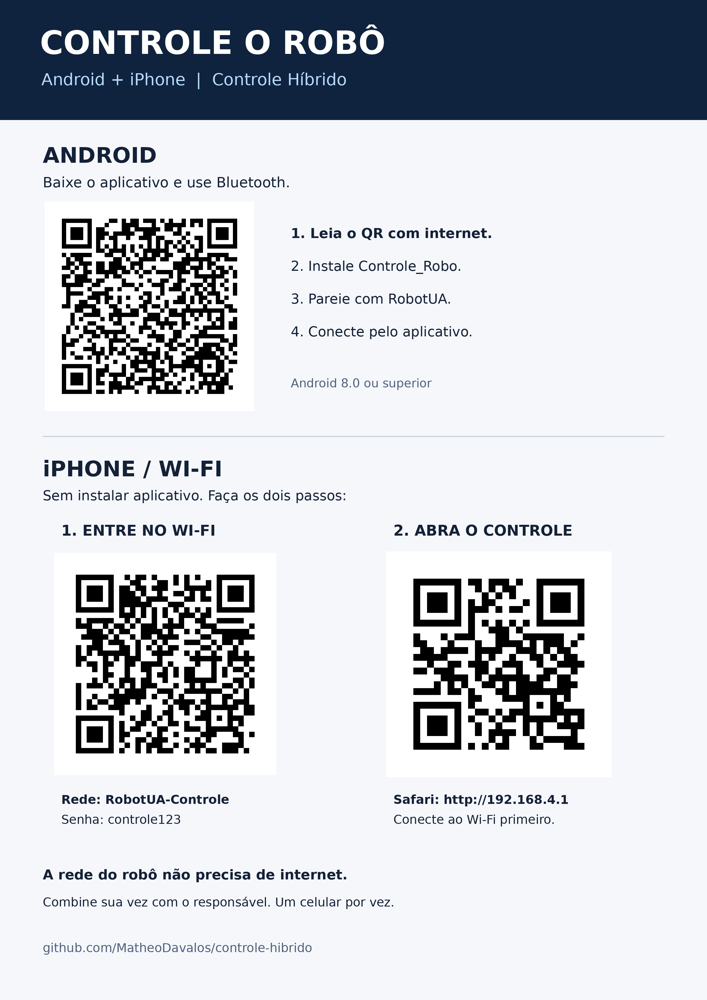
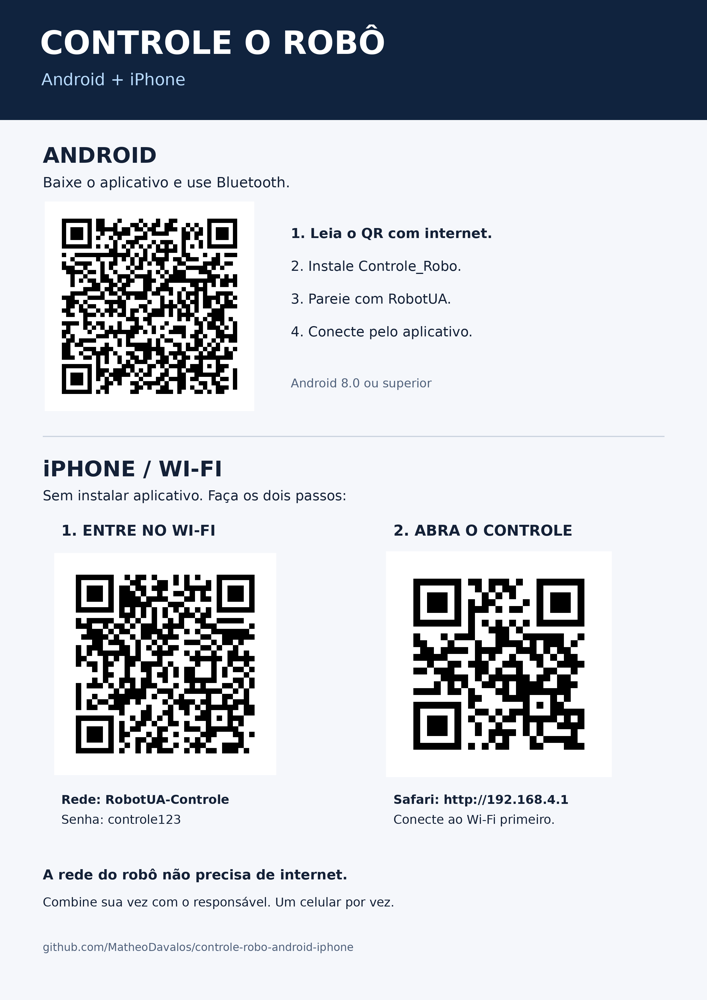
Renomeia apresentação para Controle do Robô e atualiza QR Codes

Changed region(s): [[0.0622, 0.217, 0.3423, 0.403], [0.0622, 0.93, 0.4979, 0.961], [0.2801, 0.062, 0.4979, 0.093]]

diff --git a/firmware/HeadController/WebControl.h b/firmware/HeadController/WebControl.h
@@ -7,7 +7,7 @@ static const char CONTROL_PAGE[] PROGMEM = R"HTML(
 <!doctype html><html lang="pt-BR"><head>
 <meta charset="utf-8"><meta name="viewport" content="width=device-width,initial-scale=1,maximum-scale=1,user-scalable=no,viewport-fit=cover">
 <meta name="apple-mobile-web-app-capable" content="yes"><meta name="apple-mobile-web-app-status-bar-style" content="black-translucent">
-<title>Controle Hibrido</title><style>
+<title>Controle do Robô</title><style>
 :root{color-scheme:dark;--bg:#070b12;--panel:#101827;--line:#29364b;--blue:#35a7ff;--red:#ff4d61;--muted:#91a0b7}*{box-sizing:border-box;touch-action:none;-webkit-user-select:none;user-select:none}
 html,body{margin:0;width:100%;height:100%;overflow:hidden;background:radial-gradient(circle at 50% -20%,#19304d,var(--bg) 55%);font-family:-apple-system,BlinkMacSystemFont,"Segoe UI",sans-serif;color:#fff}
 body{padding:max(10px,env(safe-area-inset-top)) max(12px,env(safe-area-inset-right)) max(10px,env(safe-area-inset-bottom)) max(12px,env(safe-area-inset-left));display:grid;grid-template-rows:auto 1fr;gap:10px}
@@ -17,7 +17,7 @@ main{min-height:0;display:grid;grid-template-columns:1fr auto 1fr;align-items:ce
 .knob{position:absolute;width:36%;height:36%;left:32%;top:32%;border-radius:50%;background:linear-gradient(145deg,#52baff,#1679c8);border:3px solid #79caff;box-shadow:0 8px 22px #000b,0 0 22px #269cff55;transform:translate(0,0)}
 .stop{width:92px;height:92px;border-radius:50%;border:4px solid #ff8290;background:linear-gradient(#fa4055,#b80e25);color:#fff;font-size:14px;font-weight:900;letter-spacing:.08em;box-shadow:0 10px 26px #000b,0 0 22px #ff314955}.stop:active{transform:scale(.94)}
 @media(max-width:680px) and (orientation:portrait){main{grid-template-columns:1fr 1fr;grid-template-rows:1fr auto}.stop{grid-column:1/-1;grid-row:2;width:76px;height:76px}.pad{width:min(42vw,31vh);height:min(42vw,31vh);min-width:130px;min-height:130px}}
-</style></head><body><header><div class="brand">CONTROLE HIBRIDO</div><div class="status"><span id="dot" class="dot"></span><span id="status">Pronto</span></div></header>
+</style></head><body><header><div class="brand">CONTROLE DO ROBÔ</div><div class="status"><span id="dot" class="dot"></span><span id="status">Pronto</span></div></header>
 <main><section class="control"><div class="label">MOVIMENTO</div><div id="move" class="pad"><div class="knob"></div></div></section><button id="stop" class="stop">PARAR</button><section class="control"><div class="label">DIRECAO</div><div id="steer" class="pad"><div class="knob"></div></div></section></main>
 <script>
 (()=>{'use strict';let movement=0,steering=0,armed=false,busy=false,lastByte=-1;

diff --git a/feira/gerar_material.py b/feira/gerar_material.py
@@ -6,10 +6,10 @@ from PIL import Image, ImageDraw, ImageFont
 
 out = Path(__file__).resolve().parent
 urls = {
-    'qr-android': 'https://github.com/MatheoDavalos/controle-hibrido/raw/refs/heads/main/apk/Controle_Robo.apk',
+    'qr-android': 'https://github.com/MatheoDavalos/controle-robo-android-iphone/raw/refs/heads/main/apk/Controle_Robo.apk',
     'qr-wifi': 'WIFI:T:WPA;S:RobotUA-Controle;P:controle123;;',
-    'qr-controle-hibrido': 'http://192.168.4.1',
-    'qr-repositorio': 'https://github.com/MatheoDavalos/controle-hibrido',
+    'qr-controle-wifi': 'http://192.168.4.1',
+    'qr-repositorio': 'https://github.com/MatheoDavalos/controle-robo-android-iphone',
 }
 codes = {}
 for name, payload in urls.items():
@@ -34,7 +34,7 @@ def paste_qr(name, x, y, limit):
     im.paste(img, (x+(limit-side)//2, y+(limit-side)//2))
 d.rectangle((0,0,2480,420), fill='#10233e')
 text(140,85,'CONTROLE O ROBÔ',112,True,'white')
-text(145,245,'Android + iPhone  |  Controle Híbrido',58,False,'#b9dcff')
+text(145,245,'Android + iPhone',58,False,'#b9dcff')
 text(150,500,'ANDROID',76,True)
 text(150,610,'Baixe o aplicativo e use Bluetooth.',50)
 paste_qr('qr-android',155,705,740)
@@ -49,13 +49,13 @@ text(150,1710,'Sem instalar aplicativo. Faça os dois passos:',48)
 text(215,1830,'1. ENTRE NO WI-FI',52,True)
 text(1380,1830,'2. ABRA O CONTROLE',52,True)
 paste_qr('qr-wifi',180,1930,800)
-paste_qr('qr-controle-hibrido',1350,1930,800)
+paste_qr('qr-controle-wifi',1350,1930,800)
 text(215,2780,'Rede: RobotUA-Controle',43,True)
 text(215,2850,'Senha: controle123',43)
 text(1380,2780,'Safari: http://192.168.4.1',43,True)
 text(1380,2850,'Conecte ao Wi-Fi primeiro.',43)
 text(150,3040,'A rede do robô não precisa de internet.',48,True)
 text(150,3140,'Combine sua vez com o responsável. Um celular por vez.',43)
-text(150,3300,'github.com/MatheoDavalos/controle-hibrido',43,False,'#50617b')
+text(150,3300,'github.com/MatheoDavalos/controle-robo-android-iphone',38,False,'#50617b')
 im.save(out / 'cartaz-feira.png', dpi=(300,300))
 im.resize((707,1000)).save(out / 'cartaz-preview.png')

diff --git a/README.md b/README.md
@@ -1,10 +1,10 @@
-# Controle Híbrido — Android e iPhone
+# Controle do Robô — Android e iPhone
 
 Controle do robô ESP32 por **Bluetooth no Android** ou **Wi-Fi no navegador do iPhone**.
 
 ## Android: baixar o aplicativo
 
-[**Baixar Controle_Robo.apk**](https://github.com/MatheoDavalos/controle-hibrido/raw/refs/heads/main/apk/Controle_Robo.apk)
+[**Baixar Controle_Robo.apk**](https://github.com/MatheoDavalos/controle-robo-android-iphone/raw/refs/heads/main/apk/Controle_Robo.apk)
 
 Requer Android 8.0 ou superior. Baixe usando internet, abra o APK e permita a instalação pela fonte escolhida se solicitado. Pareie **RobotUA** nas configurações Bluetooth, abra **Controle_Robo** e conecte. O aplicativo é o mesmo da versão normal, com a assinatura original preservada; o modo Wi-Fi está no firmware do robô.
 
@@ -12,7 +12,7 @@ Requer Android 8.0 ou superior. Baixe usando internet, abra o APK e permita a in
 
 ## iPhone: controlar pelo Wi-Fi
 
-Não precisa instalar aplicativo. O robô precisa estar ligado e com o firmware híbrido carregado.
+Não precisa instalar aplicativo. O robô precisa estar ligado e com o firmware com Bluetooth e Wi-Fi carregado.
 
 1. Leia o QR de Wi-Fi abaixo ou entre em **Ajustes > Wi-Fi > RobotUA-Controle**. Senha: **controle123**.
 2. Permaneça conectado mesmo que o iPhone indique que a rede não tem internet.
@@ -21,7 +21,7 @@ Não precisa instalar aplicativo. O robô precisa estar ligado e com o firmware 
 
 | 1 — Entrar no Wi-Fi | 2 — Abrir o controle |
 |---|---|
-| ![Conectar ao Wi-Fi](feira/qr-wifi.png) | ![Abrir controle](feira/qr-controle-hibrido.png) |
+| ![Conectar ao Wi-Fi](feira/qr-wifi.png) | ![Abrir controle](feira/qr-controle-wifi.png) |
 
 O endereço do controle só funciona conectado ao Wi-Fi do robô. A página está no ESP32 e não depende do GitHub ou da internet. Android também pode usar esse modo pelo navegador.
 
@@ -35,16 +35,16 @@ Combine a vez com o responsável: um celular opera por vez. Solte os controles e
 
 - `android/`: código do aplicativo Android.
 - `apk/`: aplicativo e checksum SHA-256.
-- `firmware/HeadController/`: sketch híbrido completo, incluindo a página web.
+- `firmware/HeadController/`: sketch com Bluetooth e Wi-Fi completo, incluindo a página web.
 - `firmware/libraries/`: biblioteca de LEDs do projeto original.
 - `feira/`: cartaz e QR Codes em PNG/SVG.
 - `docs/`: compilação, hardware e validação.
 
-Abra **firmware/HeadController/HeadController.ino** no Arduino IDE mantendo todos os arquivos dessa pasta juntos. Para ESP32-WROOM-32 de 4 MB, selecione **ESP32 Dev Module**, **Flash Size: 4MB**, **Partition Scheme: Huge APP (3MB No OTA/1MB SPIFFS)** e **Flash Mode: DIO**. A configuração DOIT padrão de 1,31 MB não comporta o firmware híbrido. Consulte [compilação](docs/COMPILAR.md).
+Abra **firmware/HeadController/HeadController.ino** no Arduino IDE mantendo todos os arquivos dessa pasta juntos. Para ESP32-WROOM-32 de 4 MB, selecione **ESP32 Dev Module**, **Flash Size: 4MB**, **Partition Scheme: Huge APP (3MB No OTA/1MB SPIFFS)** e **Flash Mode: DIO**. A configuração DOIT padrão de 1,31 MB não comporta o firmware com Bluetooth e Wi-Fi. Consulte [compilação](docs/COMPILAR.md).
 
 ## Estado da versão híbrida
 
-Os testes de lógica passaram, mas a validação física conjunta de Bluetooth/Wi-Fi ainda está pendente. O usuário confirmou que os dois olhos funcionam após desligar e ligar o robô; a causa da falha inicial não foi confirmada. O histórico de validação herdado da versão normal não certifica o firmware híbrido.
+Os testes de lógica passaram, mas a validação física conjunta de Bluetooth/Wi-Fi ainda está pendente. O usuário confirmou que os dois olhos funcionam após desligar e ligar o robô; a causa da falha inicial não foi confirmada. O histórico de validação herdado da versão normal não certifica o firmware com Bluetooth e Wi-Fi.
 
 A arbitragem atual separa Bluetooth, web e serial, mas não distingue dois navegadores. O timeout físico é de 800 ms; a concessão de controle expira em 600 ms. O transporte web implementado usa HTTP, não WebSocket. Use apenas um operador por vez.
 

diff --git a/docs/VALIDACAO.md b/docs/VALIDACAO.md
@@ -29,4 +29,4 @@ mas a roda continua, confira calibração, alimentação e servo. O modelo dos s
 não foi informado.
 # Nota da versão híbrida
 
-O histórico abaixo pertence à versão normal. Para o híbrido, foram executados os testes locais de movimento, face, recepção e arbitragem e verificado o checksum do APK preservado. A interface web foi inspecionada no navegador de computador; isso não certifica Safari real nem operação simultânea no ESP32. O firmware excedeu a partição DOIT padrão: use ESP32 Dev Module com Huge APP conforme COMPILAR.md. O usuário confirmou que o olho apagado voltou a funcionar após desligar e ligar. Ainda é necessário validar os dois transportes no hardware.
+O histórico abaixo pertence à versão normal. Para a versão com Wi-Fi, foram executados os testes locais de movimento, face, recepção e arbitragem e verificado o checksum do APK preservado. A interface web foi inspecionada no navegador de computador; isso não certifica Safari real nem operação simultânea no ESP32. O firmware excedeu a partição DOIT padrão: use ESP32 Dev Module com Huge APP conforme COMPILAR.md. O usuário confirmou que o olho apagado voltou a funcionar após desligar e ligar. Ainda é necessário validar os dois transportes no hardware.

diff --git a/feira/INSTALAR.md b/feira/INSTALAR.md
@@ -7,7 +7,7 @@ Leia `qr-android.png` usando internet para baixar o APK. Instale, pareie **Robot
 ## iPhone / Wi-Fi
 
 1. Leia `qr-wifi.png` para conectar à rede **RobotUA-Controle** (senha **controle123**).
-2. Depois leia `qr-controle-hibrido.png` para abrir **http://192.168.4.1** no Safari.
+2. Depois leia `qr-controle-wifi.png` para abrir **http://192.168.4.1** no Safari.
 
 O aviso de rede sem internet é esperado. O controle fica no próprio ESP32. Não é possível abrir o controle pela internet, fora dessa rede. Android também pode usar o navegador.
 
@@ -16,7 +16,7 @@ O aviso de rede sem internet é esperado. O controle fica no próprio ESP32. Nã
 - `cartaz-feira.png`: imprimir em A4 retrato, ajustar à página.
 - `qr-android.png` e `.svg`: download do APK no repositório híbrido.
 - `qr-wifi.png` e `.svg`: conexão à rede Wi-Fi do robô.
-- `qr-controle-hibrido.png` e `.svg`: controle local no navegador.
+- `qr-controle-wifi.png` e `.svg`: controle local no navegador.
 - `qr-repositorio.png` e `.svg`: instruções e código no GitHub.
 
 Um operador por vez. Desconecte ao terminar. Teste os códigos impressos com o robô antes da feira.

diff --git a/docs/COMPILAR.md b/docs/COMPILAR.md
@@ -1,4 +1,4 @@
-# Compilar o Controle Híbrido
+# Compilar o Controle do Robô
 
 ## ESP32-WROOM-32 / DOIT DEVKIT V1 (4 MB)
 
@@ -10,7 +10,7 @@
 6. Escolha a porta correta, verifique e carregue por USB.
 7. Abra o Monitor Serial em **115200 baud**. Deve aparecer `Controle web: http://192.168.4.1`.
 
-O perfil DOIT padrão reserva apenas 1.310.720 bytes para o programa; o firmware híbrido compilado pelo usuário ocupou 1.674.851 bytes. Huge APP reserva 3.145.728 bytes. Essa configuração não oferece atualização OTA. Não há binário ESP32 pré-compilado nesta entrega.
+O perfil DOIT padrão reserva apenas 1.310.720 bytes para o programa; o firmware com Bluetooth e Wi-Fi compilado pelo usuário ocupou 1.674.851 bytes. Huge APP reserva 3.145.728 bytes. Essa configuração não oferece atualização OTA. Não há binário ESP32 pré-compilado nesta entrega.
 
 ## Android
 

diff --git a/docs/HARDWARE.md b/docs/HARDWARE.md
@@ -3,7 +3,7 @@
 Placa: ESP32-WROOM-32 / DOIT ESP32 DEVKIT V1, Bluetooth clássico SPP e
 Wi-Fi em modo ponto de acesso simultaneamente.
 
-## Controle híbrido
+## Controle do robô
 
 O aplicativo Android continua conectando ao dispositivo Bluetooth `RobotUA`.
 Para usar o controle web no iPhone ou computador:
